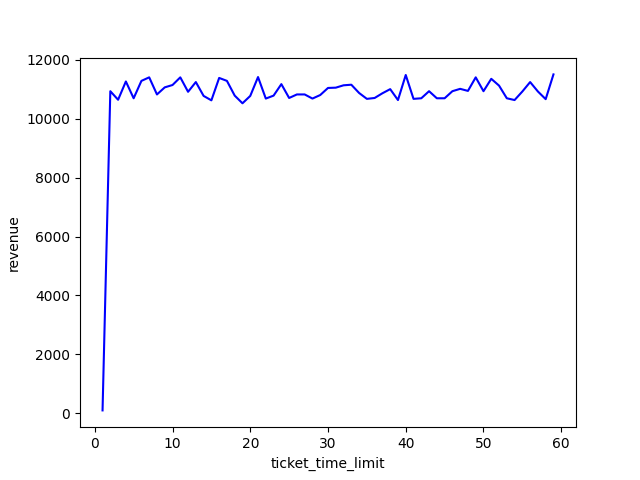
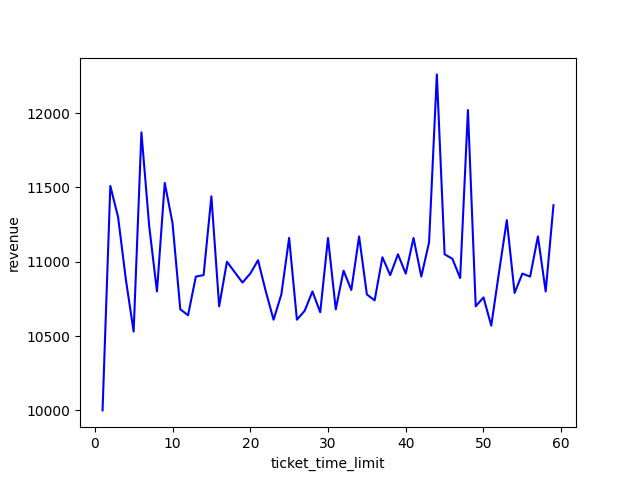
update TODO

diff --git a/plot.py b/plot.py
@@ -13,7 +13,7 @@ class AirlineRmPlotting:
             simulation.run(num_days=Param.num_days)
             revenue = 0
             for f in simulation.flights.values():
-                revenue += f.total_revenue
+                revenue += f.revenue
                 revenues.append(revenue)
         
         plt.plot(range(1,max_ttl), revenues, color='blue', label=Param.confirm_prob)

diff --git a/README.md b/README.md
@@ -1,2 +1,9 @@
 Process Graph
 ![](./assets/pictures/process%20graph.png)
+
+TODO:
+
+1. add more points to graph to make more dense
+2. in the same graph, have other trend lines of different lambda
+3. change the increment in price from seatwise to weekwise (increment 5% per week) equal increment
+4. median/meanline in each trend line
